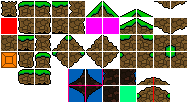
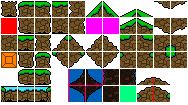
fix physics bugs for loops

Changed region(s): [[0.0, 0.8, 0.2926, 0.9714]]

diff --git a/src/troid/entities/player/player.js b/src/troid/entities/player/player.js
@@ -272,6 +272,8 @@ export class Player extends PlayerBase {
         let spf = .1
         let spf2 = 1/12
         let xoffset = - 12
+        let xoffsetR = - 12
+        let xoffsetL = - 8
         let yoffset = - 7
         let yoffset2 = - 19
 
@@ -303,44 +305,44 @@ export class Player extends PlayerBase {
         const morph = (row) => [...Array(10).keys()].map(i => ((5+row)*sheet.cols + i))
         const unmorph = (row) => [...Array(10).keys()].map(i => ((5+row)*sheet.cols + i)).reverse()
 
-        aid = this.animation.register(sheet, idle(0), spf, {xoffset, yoffset})
+        aid = this.animation.register(sheet, idle(0), spf, {xoffset: xoffsetR, yoffset})
         this.animations["idle"][Direction.RIGHT] = aid
-        aid = this.animation.register(sheet, idle(1), spf, {xoffset, yoffset})
+        aid = this.animation.register(sheet, idle(1), spf, {xoffset: xoffsetR, yoffset})
         this.animations["idle"][Direction.UPRIGHT] = aid
 
-        aid = this.animation.register(sheet, idle(2), spf, {xoffset, yoffset})
+        aid = this.animation.register(sheet, idle(2), spf, {xoffset: xoffsetL, yoffset})
         this.animations["idle"][Direction.LEFT] = aid
-        aid = this.animation.register(sheet, idle(3), spf, {xoffset, yoffset})
+        aid = this.animation.register(sheet, idle(3), spf, {xoffset: xoffsetL, yoffset})
         this.animations["idle"][Direction.UPLEFT] = aid
 
-        aid = this.animation.register(sheet, walk(0), spf, {xoffset, yoffset})
+        aid = this.animation.register(sheet, walk(0), spf, {xoffset: xoffsetR, yoffset})
         this.animations["run"][Direction.RIGHT] = aid
-        aid = this.animation.register(sheet, walk(1), spf, {xoffset, yoffset})
+        aid = this.animation.register(sheet, walk(1), spf, {xoffset: xoffsetR, yoffset})
         this.animations["run"][Direction.UPRIGHT] = aid
 
-        aid = this.animation.register(sheet, walk(2), spf, {xoffset, yoffset})
+        aid = this.animation.register(sheet, walk(2), spf, {xoffset: xoffsetL, yoffset})
         this.animations["run"][Direction.LEFT] = aid
-        aid = this.animation.register(sheet, walk(3), spf, {xoffset, yoffset})
+        aid = this.animation.register(sheet, walk(3), spf, {xoffset: xoffsetL, yoffset})
         this.animations["run"][Direction.UPLEFT] = aid
 
-        aid = this.animation.register(sheet, jump(0), spf, {xoffset, yoffset})
+        aid = this.animation.register(sheet, jump(0), spf, {xoffset: xoffsetR, yoffset})
         this.animations["jump"][Direction.RIGHT] = aid
-        aid = this.animation.register(sheet, jump(1), spf, {xoffset, yoffset})
+        aid = this.animation.register(sheet, jump(1), spf, {xoffset: xoffsetR, yoffset})
         this.animations["jump"][Direction.UPRIGHT] = aid
 
-        aid = this.animation.register(sheet, jump(2), spf, {xoffset, yoffset})
+        aid = this.animation.register(sheet, jump(2), spf, {xoffset: xoffsetL, yoffset})
         this.animations["jump"][Direction.LEFT] = aid
-        aid = this.animation.register(sheet, jump(3), spf, {xoffset, yoffset})
+        aid = this.animation.register(sheet, jump(3), spf, {xoffset: xoffsetL, yoffset})
         this.animations["jump"][Direction.UPLEFT] = aid
 
-        aid = this.animation.register(sheet, fall(0), spf, {xoffset, yoffset})
+        aid = this.animation.register(sheet, fall(0), spf, {xoffset: xoffsetR, yoffset})
         this.animations["fall"][Direction.RIGHT] = aid
-        aid = this.animation.register(sheet, fall(1), spf, {xoffset, yoffset})
+        aid = this.animation.register(sheet, fall(1), spf, {xoffset: xoffsetR, yoffset})
         this.animations["fall"][Direction.UPRIGHT] = aid
 
-        aid = this.animation.register(sheet, fall(2), spf, {xoffset, yoffset})
+        aid = this.animation.register(sheet, fall(2), spf, {xoffset: xoffsetL, yoffset})
         this.animations["fall"][Direction.LEFT] = aid
-        aid = this.animation.register(sheet, fall(3), spf, {xoffset, yoffset})
+        aid = this.animation.register(sheet, fall(3), spf, {xoffset: xoffsetL, yoffset})
         this.animations["fall"][Direction.UPLEFT] = aid
 
         aid = this.animation.register(sheet, hurt(0), spf, {xoffset, yoffset})
@@ -355,17 +357,17 @@ export class Player extends PlayerBase {
         this.animations["spawn"][Direction.UP] = aid
         this.animations["spawn"][Direction.DOWN] = aid
 
-        aid = this.animation.register(sheet, morph(0), spf/2, {xoffset, yoffset, loop: false, onend: this.onMorphEnd.bind(this)})
+        aid = this.animation.register(sheet, morph(0), spf/2, {xoffset: xoffsetR, yoffset, loop: false, onend: this.onMorphEnd.bind(this)})
         this.animations["morph"][Direction.RIGHT] = aid
         this.animations["morph"][Direction.UPRIGHT] = aid
-        aid = this.animation.register(sheet, morph(1), spf/2, {xoffset, yoffset, loop: false, onend: this.onMorphEnd.bind(this)})
+        aid = this.animation.register(sheet, morph(1), spf/2, {xoffset: xoffsetL, yoffset, loop: false, onend: this.onMorphEnd.bind(this)})
         this.animations["morph"][Direction.LEFT] = aid
         this.animations["morph"][Direction.UPLEFT] = aid
 
-        aid = this.animation.register(sheet, unmorph(0), spf/2, {xoffset, yoffset, loop: false, onend: this.onUnmorphEnd.bind(this)})
+        aid = this.animation.register(sheet, unmorph(0), spf/2, {xoffset: xoffsetR, yoffset, loop: false, onend: this.onUnmorphEnd.bind(this)})
         this.animations["unmorph"][Direction.RIGHT] = aid
         this.animations["unmorph"][Direction.UPRIGHT] = aid
-        aid = this.animation.register(sheet, unmorph(1), spf/2, {xoffset, yoffset, loop: false, onend: this.onUnmorphEnd.bind(this)})
+        aid = this.animation.register(sheet, unmorph(1), spf/2, {xoffset: xoffsetL, yoffset, loop: false, onend: this.onUnmorphEnd.bind(this)})
         this.animations["unmorph"][Direction.LEFT] = aid
         this.animations["unmorph"][Direction.UPLEFT] = aid
 
@@ -491,8 +493,6 @@ export class Player extends PlayerBase {
 
     paint(ctx) {
 
-
-
         ctx.save()
         this.animation.paint(ctx)
         ctx.restore()
@@ -581,7 +581,7 @@ export class Player extends PlayerBase {
             ctx.stroke()
         }
 
-        //this.physics.paint(ctx)
+        // this.physics.paint(ctx)
     }
 
     _updateAnimation() {
@@ -650,14 +650,16 @@ export class Player extends PlayerBase {
         }
 
         //
+        /*
         if (this.physics.can_wallwalk && this.physics.standing_direction != Direction.DOWN && !this.physics._x_step_collisions.b) {
             this.physics.standing_direction = Direction.DOWN
 
             console.log("!!fixme set moving", this.physics.moving_direction)
-        }
+        }*/
 
         this.physics.update(dt)
         this.character.update(dt)
+        //console.log("speed", Math.sqrt(this.physics.speed.x*this.physics.speed.x + this.physics.speed.y*this.physics.speed.y))
 
         if (!this.alive) {
 

diff --git a/src/troid/entities/hazards/loop.js b/src/troid/entities/hazards/loop.js
@@ -31,7 +31,6 @@ function tangentLine(degrees, radius) {
     let y0 = radius * Math.sin(radians);
     // Calculate the slope of the tangent line
     let m = -x0 / y0;
-    console.log(m, x0, y0, degrees)
     
     // Calculate the y-intercept of the tangent line
     let b = y0 - m * x0;
@@ -48,6 +47,7 @@ export class Loop extends PlatformerEntity {
         this.rect = new Rect(props.x, props.y, 128, 128)
         this.visible = 1
         this.solid = 1
+        this.layer = -1
 
         this.object_state = {[0]: 1} // entid => (0: left, 1: right)
 
@@ -55,8 +55,6 @@ export class Loop extends PlatformerEntity {
         this.center_y = this.rect.cy() + this.offset_y/2
         this.center_x = this.rect.cx()
         this.radius = (this.rect.w - this.offset_y)/2
-
-        console.log(this.rect, this.radius, this.rect.w - 2*this.radius)
 
         this.dirt = gAssets.themes[gAssets.mapinfo.theme][1].tile(33)
 
@@ -85,8 +83,6 @@ export class Loop extends PlatformerEntity {
         let w = this.rect.w
         let h = this.rect.h
 
-        console.log(`create mask for ${w}x${h}`)
-
         let canvas = document.createElement('canvas');
         canvas.width = w;
         canvas.height = h;
@@ -111,7 +107,6 @@ export class Loop extends PlatformerEntity {
         createImageBitmap(chunk_image)
             .then(image => {
                 this._x_mask = image
-                console.log("mask created")
             })
             .catch(err => {
                 console.error(err)
@@ -174,33 +169,39 @@ export class Loop extends PlatformerEntity {
     }
 
 
-    paint(ctx) {
+    static paint_loop(ctx, tile, x, y, w, h, cx, cy, radius) {
         // draw a circle, 128 px in diameter
         ctx.save()
         
-        //ctx.globalCompositeOperation='destination-out'
-        ctx.fillStyle = '0xFFFFFF';
-
         ctx.beginPath()
-        ctx.rect(this.rect.x, this.rect.y, this.rect.w, this.rect.h)
-        ctx.arc(this.center_x, this.center_y, this.radius, 0, 2 * Math.PI, true)
+        ctx.rect(x, y, w, h)
+        ctx.arc(cx, cy, radius, 0, 2 * Math.PI, true)
         ctx.closePath()
         ctx.clip()
 
-        for (let x = 0; x < this.rect.w; x+=16) {
-            for (let y = 0; y < this.rect.h; y+=16) {
-                this.dirt.draw(ctx, this.rect.x + x, this.rect.y + y)
+        for (let i = 0; i < w; i+=16) {
+            for (let j = 0; j < h; j+=16) {
+                tile.draw(ctx, x + i, y + j)
             }
         }
+
+        ctx.beginPath()
+        ctx.lineWidth=2
+        ctx.strokeStyle = 'black'
+        ctx.arc(cx, cy, radius, 0, 2 * Math.PI, true)
+        ctx.stroke()
 
         // use composition moves to darken part of the screen
         ctx.globalCompositeOperation = 'multiply'
         ctx.fillStyle = 'rgba(0,0,0,0.5)'
-        ctx.fillRect(this.rect.x, this.rect.y + this.rect.h/2, this.rect.w/2, this.rect.h/2)
-
-        //ctx.clip()
+        ctx.fillRect(x, y + h/2, w/2, h/2)
 
         ctx.restore()
+    }
+    
+    paint(ctx) {
+
+        Loop.paint_loop(ctx, this.dirt, this.rect.x, this.rect.y, this.rect.w, this.rect.h, this.center_x, this.center_y, this.radius)
 
         //let image = this._x_mask
         //if (!!image) {
@@ -300,9 +301,14 @@ export class Loop extends PlatformerEntity {
 
 }
 
-registerEditorEntity("Loop", Loop, [128,128], EntityCategory.hazard, null, (entry)=> {
-    entry.icon = gAssets.sheets.ruler.tile(0)
+registerEditorEntity("Loop", Loop, [128,128], EntityCategory.switches, null, (entry)=> {
+    entry.icon = gAssets.sheets.hazard_icons.tile(0)
     entry.editorIcon = null
     entry.editorSchema = [
     ]
+    entry.editorRender = (ctx, x, y, props) => {
+        let tile = gAssets.themes[gAssets.mapinfo.theme][1].tile(33)
+        Loop.paint_loop(ctx, tile, x, y, 128, 128, x + 64, y + 64 + 8, 64)
+    }
+
 })

diff --git a/src/troid/scenes/editor.js b/src/troid/scenes/editor.js
@@ -889,10 +889,14 @@ class ObjectMenu {
         ctx.strokeStyle = "black"
         ctx.textAlign = "left"
         ctx.textBaseline = "top"
-        ctx.font = "bold 10px serif"
-        ctx.fillText(`${page.title}`, this.rect.x + this.margin2, this.rect.y + this.margin1 - 4);
-        ctx.font = "8px serif"
-        ctx.fillText(`${obj.name}`, this.rect.x + this.margin2, this.rect.y + this.margin1 - 4 + 12);
+        if (!!page) {
+            ctx.font = "bold 10px serif"
+            ctx.fillText(`${page.title}`, this.rect.x + this.margin2, this.rect.y + this.margin1 - 4);
+        }
+        if (!!obj) {
+            ctx.font = "8px serif"
+            ctx.fillText(`${obj.name}`, this.rect.x + this.margin2, this.rect.y + this.margin1 - 4 + 12);
+        }
 
 
         // headers
@@ -1951,7 +1955,13 @@ export class LevelEditScene extends GameScene {
         })
 
         gAssets.mapinfo.stamps.forEach(stamp => {
+            try {
+                let [encoded0, encoded1] = stamp
+            } catch (e) {
+                return
+            }
             let [encoded0, encoded1] = stamp
+
             let sid = encoded0 & 0x3FFFF
             let sheet = (encoded0 >> 18) & 0xFF
             let layer = (encoded0 >> 26) & 0x03
@@ -2043,6 +2053,7 @@ export class LevelEditScene extends GameScene {
     }
 
     setTileTheme(theme) {
+        gAssets.mapinfo.theme = theme
         this.current_theme = theme
         this.theme_sheets = gAssets.themes[theme]
         this.theme_sheets_icon = this.theme_sheets.map(s => s===null?null:s.tile(2*11+1))
@@ -2499,7 +2510,14 @@ export class LevelEditScene extends GameScene {
 
     _paint_background(ctx) {
         ctx.beginPath()
-        ctx.fillStyle = "#477ed6";
+        let bgcolor;
+        if (gAssets.mapinfo.theme == "plains") {
+            bgcolor = "#477ed6"
+        } else {
+            // dark beige
+            bgcolor = "#301505"
+        }
+        ctx.fillStyle = bgcolor
         ctx.strokeStyle = "#000000";
         //const rw = Math.min(this.camera.x + gEngine.view.width, this.map.width) - this.camera.x
         //const rh = Math.min(this.camera.y + gEngine.view.height, this.map.height) - this.camera.y

diff --git a/src/troid/scenes/resource.js b/src/troid/scenes/resource.js
@@ -368,6 +368,13 @@ class AssetLoader {
             .offset(1, 18)
             .spacing(1, 1)
 
+        this.loader.addSpriteSheet("hazard_icons")
+            .path(RES_ROOT + "/sprites/hazards/editor_icons.png")
+            .dimensions(16, 16)
+            .layout(1, 1)
+            .offset(1, 1)
+            .spacing(1, 1)
+
         this.loader.addSpriteSheet("ruler")
             .path(RES_ROOT + "/sprites/ruler.png")
             .dimensions(16, 16)
@@ -744,6 +751,11 @@ class LevelChunkBuilder {
         console.log("update stamps", this.map.stamps.length)
         this.map.stamps.forEach(stamp => {
             // ignore 0 width/height stamps
+            try {
+                let [encoded0, encoded1] = stamp
+            } catch (e) {
+                return
+            }
             let [encoded0, encoded1] = stamp
             //let encoded1 = (rect.x&0xFF)<<24|(rect.y&0xFF)<<16|(rect.w&0xFF)<<8|(rect.h&0xFF)
             //let encoded0 = ((t[1].sheet&0xFF) << 18) | ((t[1].layer&0x03) << 26) | (+t[0])

diff --git a/src/troid/entities/items/brick.js b/src/troid/entities/items/brick.js
@@ -167,14 +167,23 @@ export class FakeBrick extends PlatformerEntity {
 
     paint(ctx) {
 
-        //ctx.beginPath();
-        //ctx.rect( this.rect.x, this.rect.y, this.rect.w, this.rect.h);
-        //ctx.fillStyle = '#FF00007f';
-        //ctx.fill();
-
         if (this.alive) {
             this.animation.paint(ctx)
         }
+
+        /*
+        if (this.solid){
+            ctx.beginPath();
+            ctx.rect( this.rect.x, this.rect.y, this.rect.w, this.rect.h);
+            ctx.fillStyle = '#FF00007f';
+            ctx.fill();
+        } else {
+            ctx.beginPath();
+            ctx.rect( this.rect.x, this.rect.y, this.rect.w, this.rect.h);
+            ctx.fillStyle = '#00FF007f';
+            ctx.fill();
+        }
+        */
 
         //FakeBrick.sheet.drawTile(ctx, 0, this.rect.x, this.rect.y)
     }

diff --git a/src/troid/maps/maps.js b/src/troid/maps/maps.js
@@ -33,7 +33,13 @@ export class PlatformMap extends CspMap {
 
     paint(ctx) {
 
-        for (const obj of Object.values(this.objects)) {
+        // sort this.objects by layer prop
+        const objs = Object.values(this.objects)
+        objs.sort((a, b) => {
+            return a.layer - b.layer
+        })
+
+        for (const obj of objs) {
 
             if (obj.visible !== false) { // explicit check for false, allow undefined
                 obj.paint(ctx)

diff --git a/src/troid/entities/mobs/creeper.js b/src/troid/entities/mobs/creeper.js
@@ -193,7 +193,7 @@ export class CreeperV2 extends MobBase {
         this.current_facing = props.direction??Direction.RIGHT
 
         this.physics.group = () => {
-            return Object.values(this._x_debug_map.objects).filter(ent=>{return ent?.solid && ent instanceof PlatformBase})
+            return Object.values(this._x_debug_map.objects).filter(ent=>{return ent?.solid})
         }
 
         this.animation = new AnimationComponent(this)

diff --git a/src/troid/entities/hazards/spikes.js b/src/troid/entities/hazards/spikes.js
@@ -29,7 +29,7 @@ class SpikesBase extends PlatformerEntity {
             case Direction.LEFT:
                 tid = 3
                 this.rect.x += 16 - size
-                this.rect.w = s
+                this.rect.w = size
                 this.offset_x = -8
                 this.offset_y = 0
                 break;

diff --git a/src/axertc/axertc_physics/entities.js b/src/axertc/axertc_physics/entities.js
@@ -9,6 +9,7 @@ export class PlatformerEntity extends Entity {
 
     constructor(entid, props) {
         super(entid, props)
+        this.layer = 0
     }
 
     collidePoint(x, y) {
